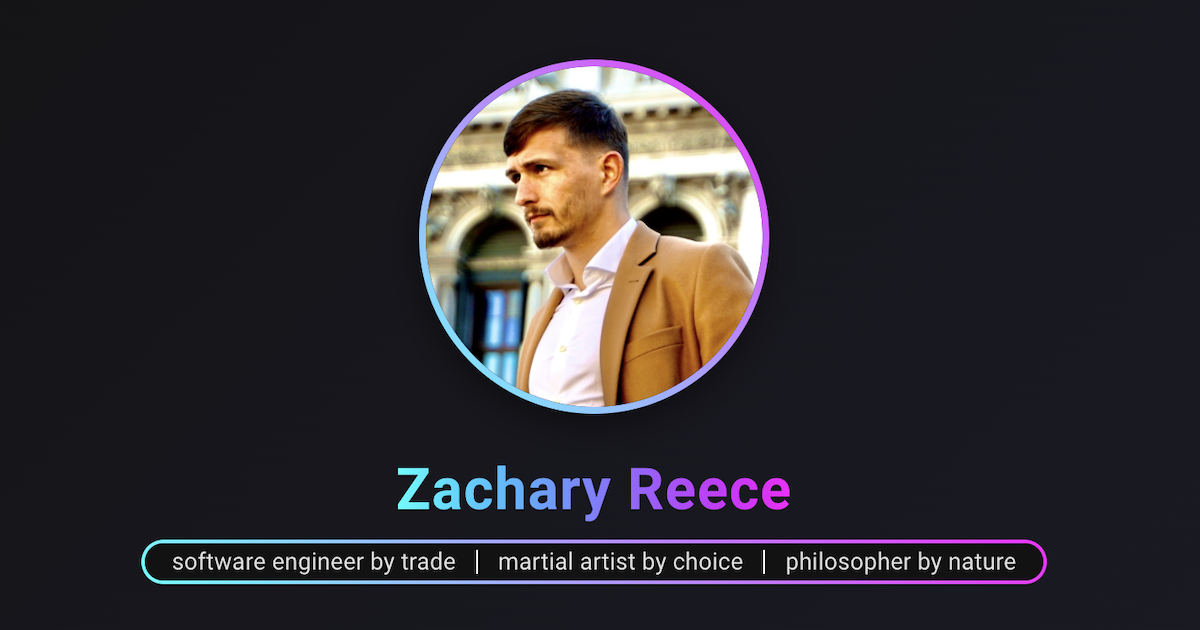
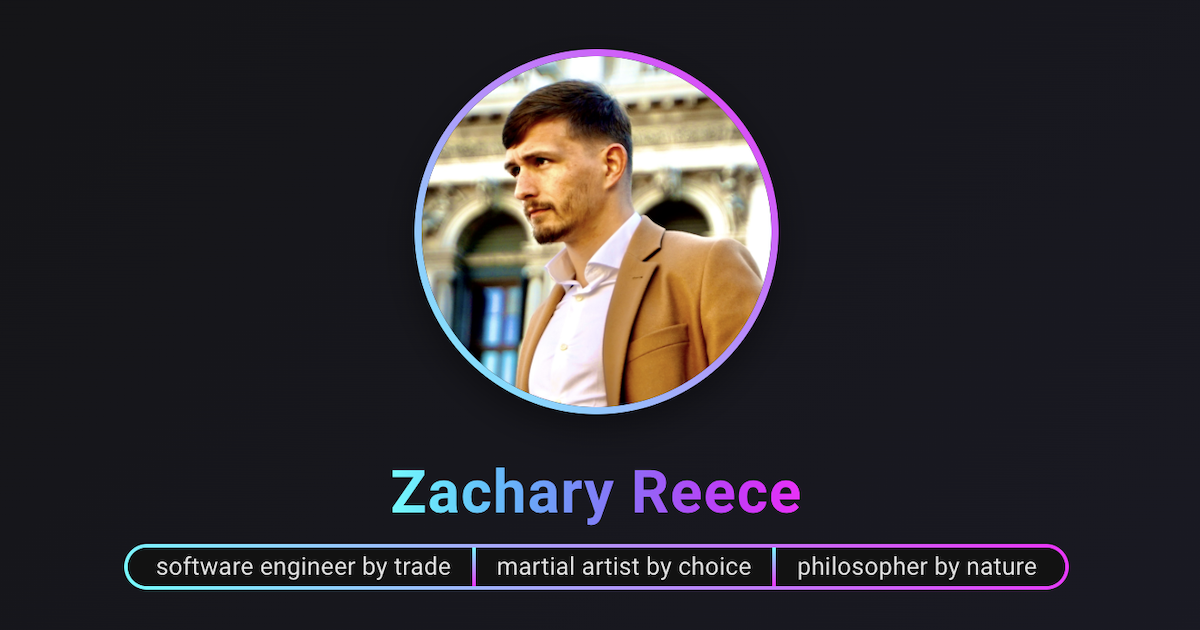
fixes

Changed region(s): [[0.3392, 0.0603, 0.6475, 0.6635], [0.0925, 0.7238, 0.8942, 0.9651]]

diff --git a/src/app/linktree/page.tsx b/src/app/linktree/page.tsx
@@ -127,18 +127,18 @@ export default function LinkTree() {
               bgcolor: theme => theme.palette.background.default,
               borderRadius: 'inherit',
               px: 2,
-              py: 0.5
+              position: 'relative'
             }}
           >
-            <Typography textAlign="center" variant="body2" sx={{ color: '#E1E1E1', fontWeight: 400, letterSpacing: "0.01em", lineHeight: 1 }}>
+            <Typography textAlign="center" variant="body2" sx={{ color: '#E1E1E1', letterSpacing: "0.01em", lineHeight: 1, py: 0.5 }}>
               software engineer by trade
             </Typography>
-            <Divider orientation="vertical" sx={{ mx: 1.5, borderColor: "#FFF" }} />
-            <Typography textAlign="center" variant="body2" sx={{ color: '#E1E1E1', fontWeight: 400, letterSpacing: "0.01em", lineHeight: 1 }}>
+            <Box sx={{ mx: 1.5, height: '100%', width: '2px', background: 'linear-gradient(to bottom, #00FFFF, #FF00FF)' }} />
+            <Typography textAlign="center" variant="body2" sx={{ color: '#E1E1E1', letterSpacing: "0.01em", lineHeight: 1, py: 0.5 }}>
               martial artist by choice
             </Typography>
-            <Divider orientation="vertical" sx={{ mx: 1.5, borderColor: "#FFF" }} />
-            <Typography textAlign="center" variant="body2" sx={{ color: '#E1E1E1', fontWeight: 400, letterSpacing: "0.01em", lineHeight: 1 }}>
+            <Box sx={{ mx: 1.5, height: '100%', width: '2px', background: 'linear-gradient(to bottom, #00FFFF, #FF00FF)' }} />
+            <Typography textAlign="center" variant="body2" sx={{ color: '#E1E1E1', letterSpacing: "0.01em", lineHeight: 1, py: 0.5 }}>
               philosopher by nature
             </Typography>
           </Box>

diff --git a/src/app/api/subscribe/route.ts b/src/app/api/subscribe/route.ts
@@ -36,7 +36,7 @@ interface SubscribeParams {
   lastName?: string;
 }
 
-export async function subscribeToNewsletter({ email, firstName, lastName }: SubscribeParams): Promise<NewsletterResponse> {
+async function subscribeToNewsletter({ email, firstName, lastName }: SubscribeParams): Promise<NewsletterResponse> {
   try {
     // Email validation
     if (!email || !/^[^\s@]+@[^\s@]+\.[^\s@]+$/.test(email)) {
